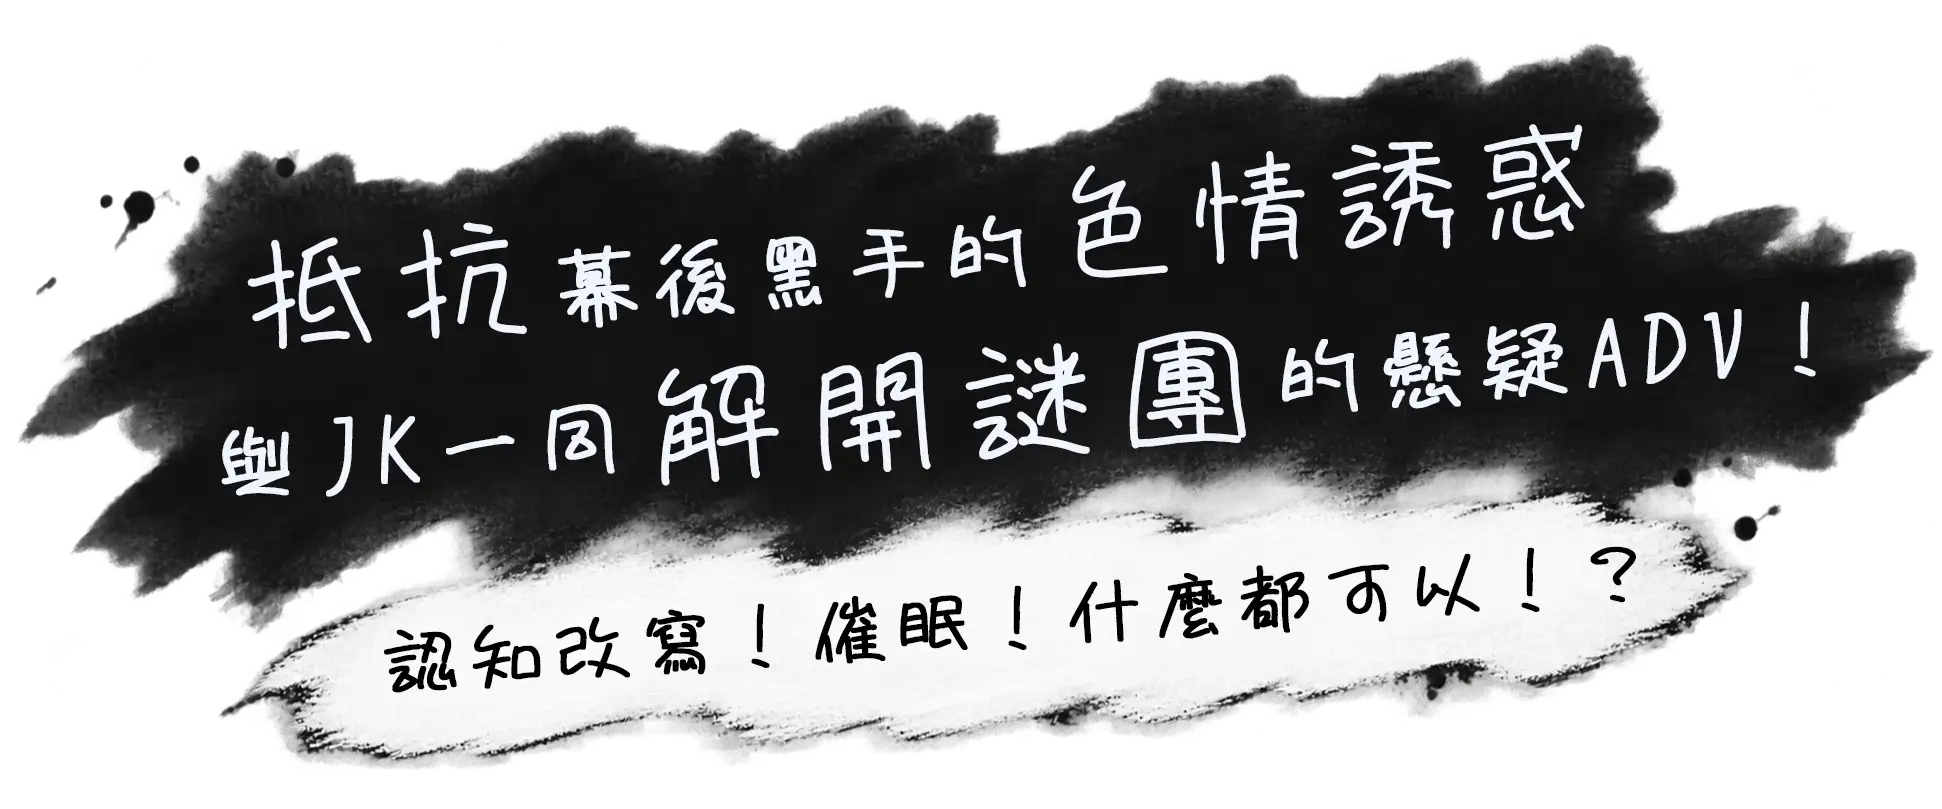
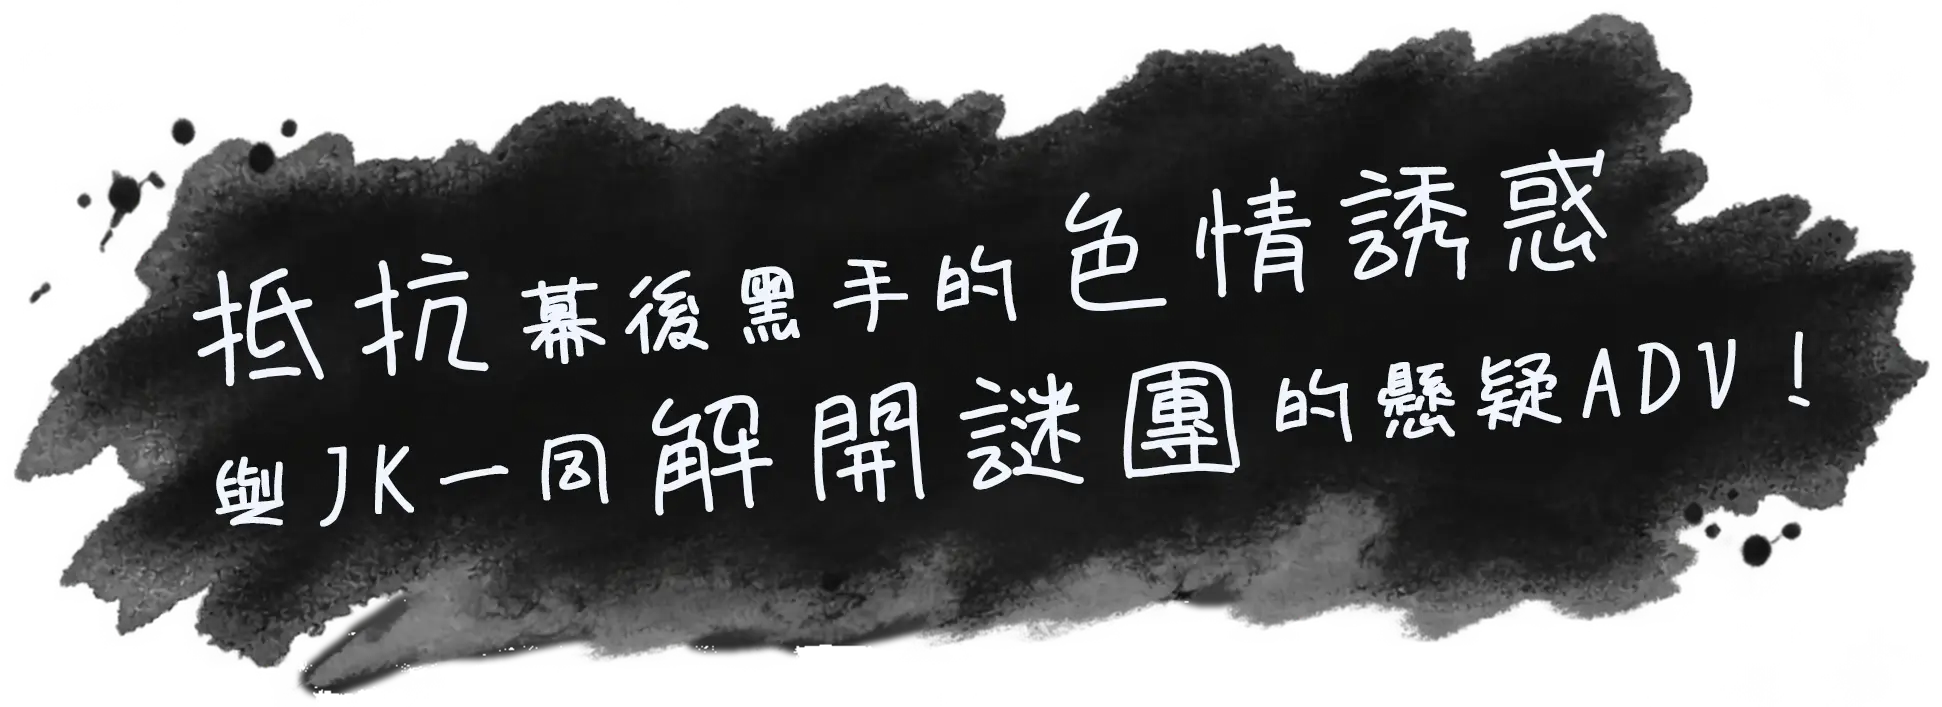
修改主視覺文字

diff --git a/taccoo8866_tw/index.html b/taccoo8866_tw/index.html
@@ -89,7 +89,7 @@
                 <div class="slogan-block">
                     <h2>
                         <picture aria-hidden="true" class="slogan_img" fetchpriority="high">
-                            <img height="160px" width="390px" fetchpriority="high" loading="eager" src="../img/sd-slogan-tc.webp" alt="遊戲標語藝術字">
+                            <img height="160px" width="390px" fetchpriority="high" loading="eager" src="../img/sd-slogan-TC.webp" alt="遊戲標語藝術字">
                         </picture>
                         <span class="visually-hidden">與她一同解開謎團，逃出未知的密室 ──懸疑解謎 ADV</span>
                     </h2>
